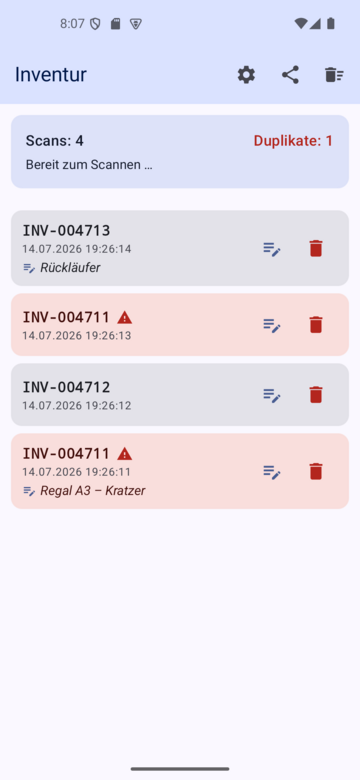
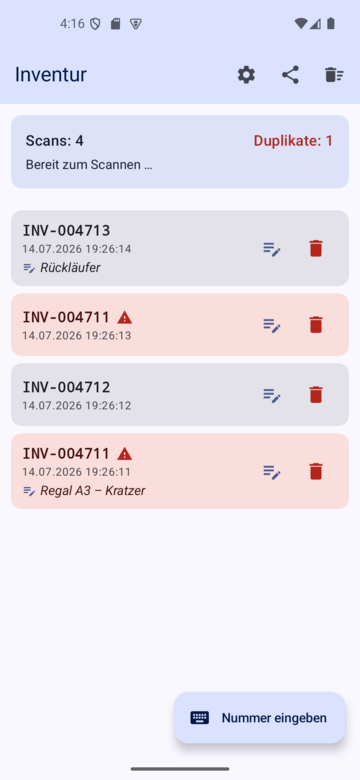
README: Manuelle Eingabe dokumentieren + Screenshots aktualisieren
Neue Funktion "Nummer eingeben" in Funktionsliste und Anleitung ergaenzt.
Screenshot des Eingabe-Dialogs hinzugefuegt und Hauptbildschirm-Screenshot
mit dem neuen FAB erneuert.

Changed region(s): [[0.4583, 0.8615, 0.9778, 0.9846], [0.1833, 0.0, 0.2444, 0.0308]]

diff --git a/README.md b/README.md
@@ -28,13 +28,15 @@ konfigurieren.
 <p align="center">
   <img src="docs/screenshots/main.png" width="240" alt="Inventurliste mit Zeitstempeln, Duplikat-Markierung und Bemerkungen">
   &nbsp;&nbsp;
+  <img src="docs/screenshots/manual.png" width="240" alt="Inventarnummer von Hand eingeben">
+  &nbsp;&nbsp;
   <img src="docs/screenshots/note.png" width="240" alt="Bemerkung zu einem Scan erfassen">
   &nbsp;&nbsp;
   <img src="docs/screenshots/scanner.png" width="240" alt="Scanner verbinden und konfigurieren">
 </p>
 
 <p align="center">
-  <i>Inventurliste &nbsp;·&nbsp; Bemerkung erfassen &nbsp;·&nbsp; Scanner verbinden</i>
+  <i>Inventurliste &nbsp;·&nbsp; Nummer von Hand eingeben &nbsp;·&nbsp; Bemerkung erfassen &nbsp;·&nbsp; Scanner verbinden</i>
 </p>
 
 ## Funktionen
@@ -42,6 +44,10 @@ konfigurieren.
 - **Scannen per HID-Tastaturmodus:** Der BCST-47 wird als Bluetooth-Tastatur
   gekoppelt und „tippt" jede Inventarnummer + Enter. Die App fängt das global ab
   (`MainActivity.dispatchKeyEvent`) und legt jeden Scan als eigene Position an.
+- **Manuelle Eingabe** über den Button „Nummer eingeben": Ist ein Barcode
+  beschädigt oder nicht lesbar, lässt sich die Inventarnummer von Hand erfassen.
+  Sie landet über denselben Weg wie ein Scan in der Liste (inkl. Zeitstempel und
+  Duplikat-Erkennung); während der Eingabe pausiert die HID-Scan-Erfassung.
 - **Ein Eintrag pro Scan** mit sekundengenauem Datum/Uhrzeit – keine Mengen,
   Inventarnummern sind eindeutig.
 - **Duplikat-Erkennung:** versehentlich doppelt gescannte Nummern werden rot
@@ -60,8 +66,10 @@ konfigurieren.
    Scanner-Screen der App auf „HID + Enter" umstellen).
 2. App öffnen und scannen – die Inventarnummern erscheinen automatisch mit
    Zeitstempel in der Liste.
-3. Bei Bedarf Bemerkungen ergänzen und Fehlscans löschen.
-4. Über das Teilen-Symbol die CSV exportieren.
+3. Ist ein Barcode nicht lesbar, über den Button **„Nummer eingeben"** die
+   Inventarnummer von Hand erfassen.
+4. Bei Bedarf Bemerkungen ergänzen und Fehlscans löschen.
+5. Über das Teilen-Symbol die CSV exportieren.
 
 ## Architektur-Hinweis
 
